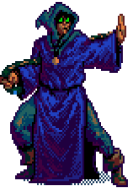
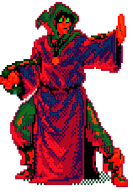
mago oscuro

diff --git a/JuegoPyGame/class_game.py b/JuegoPyGame/class_game.py
@@ -313,7 +313,62 @@ if __name__ == "__main__":
 
     lista_niveles.append(nivel2)
 
-    #region nivel 3
+   #region nivel 3
+    personaje_grupo = pygame.sprite.Group()
+    enemigos_grupo = pygame.sprite.Group()
+    plataformas_grupo = pygame.sprite.Group()
+    trampas_grupo = pygame.sprite.Group()
+    item_grupo = pygame.sprite.Group()
+    spawn_grupo = pygame.sprite.Group()
+    aliado_grupo = pygame.sprite.Group()
+    
+    mi_personaje = Protagonista(tamaño, posicion_inicial,10,70,30)
+    personaje_grupo.add(mi_personaje)
+    
+    enemigos_grupo.add(Enemigo(tamaño, (1200,500),5,25,20,"zombie",3,10,300)) 
+    enemigos_grupo.add(Enemigo(tamaño, (700,500),8,25,20,"zombie",3,10,300))        
+    enemigos_grupo.add(Enemigo(tamaño, (150,350),5,5,30,"esqueleto",3,20,300))
+    enemigos_grupo.add(Enemigo(tamaño, (1050,230),10,5,30,"esqueleto",3,20,300))    
+    
+    #enemigos_grupo.add(Enemigo(tamaño, (100,250),5,10,20,"zombie",3,20,300))
+    #pisos
+    mi_piso = ElementoGrafico(0,575,W,20,"plataforma5")
+    plataformas_grupo.add(mi_piso)
+
+    #plataformas_grupo.add(ElementoGrafico(0,450,100,20,"plataforma2"))
+    plataformas_grupo.add(ElementoGrafico(400,450,100,20,"plataforma5"))
+    plataformas_grupo.add(ElementoGrafico(150,350,100,20,"plataforma5"))
+    plataformas_grupo.add(ElementoGrafico(360,250,100,20,"plataforma5"))
+    plataformas_grupo.add(ElementoGrafico(700,350,400,20,"plataforma5"))
+    plataformas_grupo.add(ElementoGrafico(1000,230,200,20,"plataforma5"))
+    plataformas_grupo.add(ElementoGrafico(1200,450,130,20,"plataforma5"))
+    plataformas_grupo.add(ElementoGrafico(650,150,200,20,"plataforma5"))
+    #trampa
+    trampas_grupo.add(ElementoGrafico(480,535,100,50,"trampa"))
+    trampas_grupo.add(ElementoGrafico(900,310,100,50,"trampa"))
+    #items
+    item_grupo.add(Item(450,420,20,20,"vida","item_vida",10))
+    item_grupo.add(Item(1050,320,40,40,"magia","item_magia",15))
+    item_grupo.add(Item(700,320,30,30,"coin","item_coin",10))
+    item_grupo.add(Item(200,310,30,30,"coin","item_coin",10))
+    item_grupo.add(Item(1000,545,30,30,"coin","item_coin",10))
+    #spawn
+    spawn_activo = False
+    spawn = Spawn(730,50,60,100,"spawn","brujo",60,4,(650,0))
+    spawn.ajustar_tamanio_rectangulo(200,spawn.rect.height)
+    spawn_grupo.add(spawn)
+
+    jefe = Enemigo((75, 85), (900, 550), 7, 33, 480,"mago",4,400,300)
+    #endregion
+    
+    nivel_3 = Nivel (personaje_grupo,enemigos_grupo,plataformas_grupo, trampas_grupo,
+                    item_grupo, spawn_grupo, "Fondo_3","samirade",(W,H), jefe) 
+    lista_niveles.append(nivel_3)
+
+
+
+
+    #region nivel 4
     personaje_grupo = pygame.sprite.Group()
     enemigos_grupo = pygame.sprite.Group()
     plataformas_grupo = pygame.sprite.Group()
@@ -357,64 +412,9 @@ if __name__ == "__main__":
     spawn = Spawn(650,0,60,100,"spawn","esqueleto",20,2,(650,0))
     spawn.ajustar_tamanio_rectangulo(200,spawn.rect.height)
     spawn_grupo.add(spawn)
-    
-    jefe = Enemigo((75, 85), (900, 550), 7, 33, 480,"mago",4,1000,300)
-    #endregion
-    
-    nivel_3 = Nivel (personaje_grupo,enemigos_grupo,plataformas_grupo, trampas_grupo,
-                    item_grupo, spawn_grupo, "Fondo_3","samirade",(W,H), jefe) 
-    lista_niveles.append(nivel_3)
-
-
-
-
-    #region nivel 4
-    personaje_grupo = pygame.sprite.Group()
-    enemigos_grupo = pygame.sprite.Group()
-    plataformas_grupo = pygame.sprite.Group()
-    trampas_grupo = pygame.sprite.Group()
-    item_grupo = pygame.sprite.Group()
-    spawn_grupo = pygame.sprite.Group()
-    aliado_grupo = pygame.sprite.Group()
-    mi_personaje = Protagonista(tamaño, posicion_inicial,10,60,30)
-    personaje_grupo.add(mi_personaje)
-    
-    enemigos_grupo.add(Enemigo(tamaño, (1200,500),5,10,20,"zombie",3,10,300))        
-    enemigos_grupo.add(Enemigo(tamaño, (1000,570),5,15,30,"esqueleto",3,20,300))
-    enemigos_grupo.add(Enemigo(tamaño, (650,100),10,10,30,"esqueleto",3,20,300))    
-    enemigos_grupo.add(Enemigo(tamaño, (700,410),5,10,20,"zombie",3,20,300))
-    enemigos_grupo.add(Enemigo(tamaño, (100,250),5,10,20,"zombie",3,20,300))
-    #pisos
-    mi_piso = ElementoGrafico(0,575,W,20,"plataforma4")
-    plataformas_grupo.add(mi_piso)
-
-    #plataformas_grupo.add(ElementoGrafico(0,450,100,20,"plataforma2"))
-    plataformas_grupo.add(ElementoGrafico(300,350,100,20,"plataforma4"))
-    plataformas_grupo.add(ElementoGrafico(100,250,100,20,"plataforma4"))
-    plataformas_grupo.add(ElementoGrafico(330,150,100,20,"plataforma4"))
-    plataformas_grupo.add(ElementoGrafico(450,100,400,20,"plataforma4"))
-    plataformas_grupo.add(ElementoGrafico(550,450,200,20,"plataforma4"))
-    plataformas_grupo.add(ElementoGrafico(600,250,130,20,"plataforma4"))
-    plataformas_grupo.add(ElementoGrafico(1000,335,150,20,"plataforma4"))
-    #trampa
-    trampas_grupo.add(ElementoGrafico(20,535,100,50,"trampa"))
-    trampas_grupo.add(ElementoGrafico(550,535,100,50,"trampa"))
-    #items
-    item_grupo.add(Item(650,80,20,20,"vida","item_vida",10))
-    item_grupo.add(Item(600,210,40,40,"magia","item_magia",5))
-    item_grupo.add(Item(1050,300,40,40,"magia","item_magia",5))
-    item_grupo.add(Item(700,410,30,30,"coin","item_coin",10))
-    item_grupo.add(Item(340,310,30,30,"coin","item_coin",10))
-    item_grupo.add(Item(650,420,20,20,"vida","item_vida",10))
-    item_grupo.add(Item(1200,545,30,30,"coin","item_coin",10))
-    #spawn
-    spawn_activo = False
-    spawn = Spawn(650,0,60,100,"spawn","esqueleto",20,2,(650,0))
-    spawn.ajustar_tamanio_rectangulo(200,spawn.rect.height)
-    spawn_grupo.add(spawn)
     aliado = Aliado(280,495)
     aliado_grupo.add(aliado)
-    jefe = Enemigo((75, 85), (900, 550), 7, 33, 480,"mago",4,1000,300)
+    jefe = Enemigo((75, 85), (900, 550), 7, 33, 480,"mago_oscuro",4,1000,300)
     #endregion
     
     nivel_4 = Nivel (personaje_grupo,enemigos_grupo,plataformas_grupo, trampas_grupo,

diff --git a/JuegoPyGame/class_enemigo.py b/JuegoPyGame/class_enemigo.py
@@ -133,9 +133,38 @@ class Enemigo(Personaje):
         diccionario_animaciones_enemigo["camina_izquierda"] = mago_camina_izquierda             #pasos
         diccionario_animaciones_enemigo["ataca"] = mago_ataca 
         return diccionario_animaciones_enemigo
+    def __animacion_mago_oscuro(self):
+        mago_camina = [
+            pygame.image.load("Recursos/Mago_Oscuro/Camina/1.png"),
+            pygame.image.load("Recursos/Mago_Oscuro/Camina/2.png"),
+            pygame.image.load("Recursos/Mago_Oscuro/Camina/3.png"),
+            pygame.image.load("Recursos/Mago_Oscuro/Camina/4.png"),
+        ]
+        mago_salta = [
+            pygame.image.load("Recursos/Mago_Oscuro/Camina/1.png")
+
+        ]
+        mago_quieto = [
+            pygame.image.load("Recursos/Mago_Oscuro/Camina/1.png")
+        ]
+        mago_ataca = [
+                pygame.image.load("Recursos/Mago_Oscuro/Camina/1.png"),
+                pygame.image.load("Recursos/Mago_Oscuro/Camina/2.png"),
+                pygame.image.load("Recursos/Mago_Oscuro/Camina/3.png"),
+        ]
+        mago_camina_izquierda  = girar_imagenes(mago_camina,True,False)
+        diccionario_animaciones_enemigo = {}
+        diccionario_animaciones_enemigo["quieto"] = mago_quieto
+        diccionario_animaciones_enemigo["salta"] = mago_salta
+        diccionario_animaciones_enemigo["camina_derecha"] = mago_camina 
+        diccionario_animaciones_enemigo["camina_izquierda"] = mago_camina_izquierda             #pasos
+        diccionario_animaciones_enemigo["ataca"] = mago_ataca 
+        return diccionario_animaciones_enemigo
     #endregion
     def __crear_animaciones(self):
         match self.tipo:
+            case    "mago_oscuro":
+                animaciones = self.__animacion_mago_oscuro()
             case    "zombie":
                 animaciones = self.__animacion_zombie()
             case    "esqueleto":
@@ -222,6 +251,8 @@ class Enemigo(Personaje):
                 reproducir_sonido("Recursos/Sonidos/Efectos/disparo_mago.wav",self.volumen_efectos)
             case "esqueleto":
                 reproducir_sonido("Recursos/Sonidos/Efectos/disparo_flecha.wav",self.volumen_efectos)
+            case "mago_oscuro":
+                reproducir_sonido("Recursos/Sonidos/Efectos/disparo_mago.wav",self.volumen_efectos)
         ataque = AtaqueDistancia(self.rect.left-40,self.rect.y,self.velocidad*1.5,direccion,self.tipo)
         self.que_hace = "ataca"
         self.ataques_distancia_grupo.add(ataque)

diff --git a/JuegoPyGame/class_ataque_distancia.py b/JuegoPyGame/class_ataque_distancia.py
@@ -59,8 +59,20 @@ class AtaqueDistancia(pygame.sprite.Sprite):
         diccionario_animaciones["izquierda"] = personaje_ataca_distancia_izquierda
         return diccionario_animaciones
     
+    def __crear_animacion_magia_oscura(self):
+        personaje_ataca_distancia_derecha = [
+            pygame.image.load("Recursos/Mago_Oscuro/Distancia/1.png")
+        ]
+        personaje_ataca_distancia_izquierda = girar_imagenes(personaje_ataca_distancia_derecha,True,False)
+        diccionario_animaciones={}
+        diccionario_animaciones["derecha"] = personaje_ataca_distancia_derecha
+        diccionario_animaciones["izquierda"] = personaje_ataca_distancia_izquierda
+        return diccionario_animaciones
+    
     def __crear_animacion(self):
         match self.tipo:
+            case "mago_oscuro":
+                animaciones = self.__crear_animacion_magia_oscura()
             case "esqueleto":
                 animaciones = self.__crear_animacion_flecha()
             case "mago":
@@ -91,3 +103,5 @@ class AtaqueDistancia(pygame.sprite.Sprite):
             self.contador_movimiento = 0
         pantalla.blit(animacion[self.contador_movimiento], self.rect)
         self.contador_movimiento += 1
+    
+    
